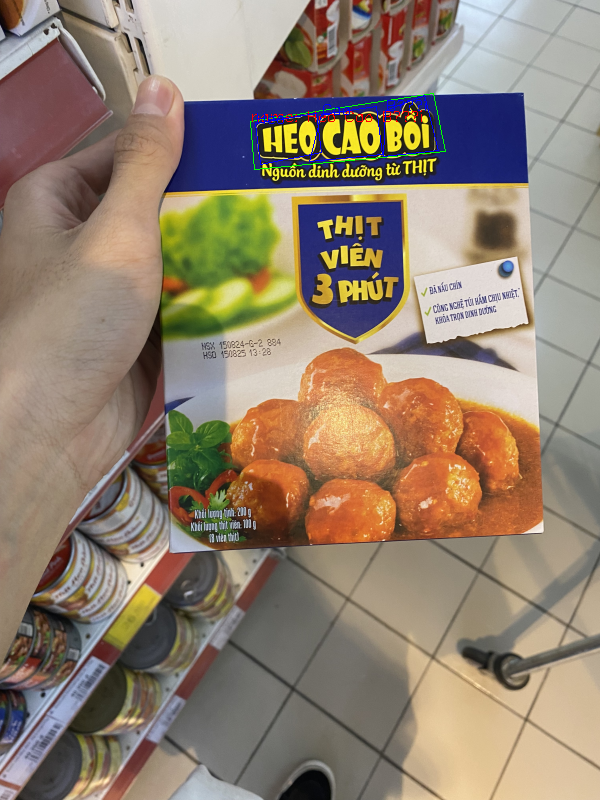
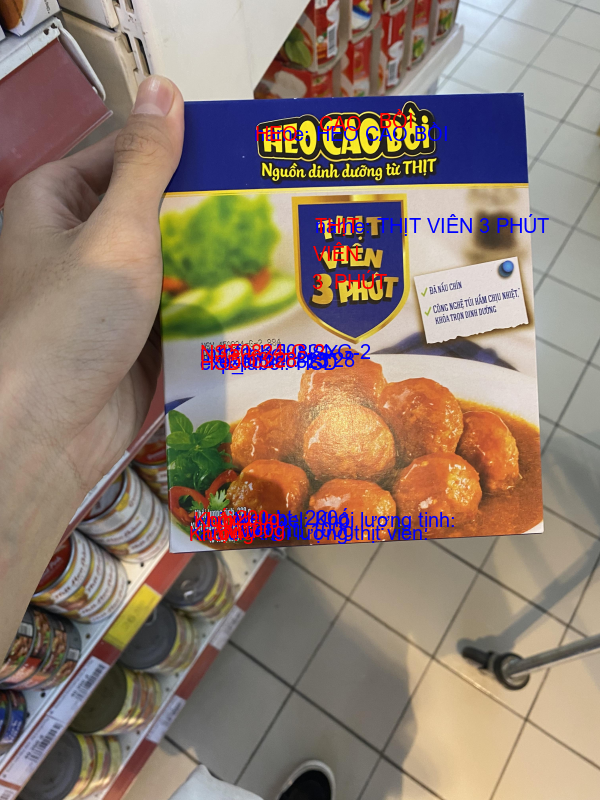
Update

diff --git a/app.py b/app.py
@@ -13,7 +13,7 @@ class LabelingApp:
         self.root.title("Image Labeling Tool")
         self.root.state('zoomed')  # Mở ứng dụng ở chế độ full màn hình
         # Cấu hình đường dẫn
-        self.image_folder = "images"  # Folder chứa ảnh
+        self.image_folder = "images_old"  # Folder chứa ảnh
         self.output_folder = "output"  # Folder chứa output JSON
         os.makedirs(self.output_folder, exist_ok=True)  # Tạo folder nếu chưa tồn tại
         self.current_image_path = None
@@ -239,35 +239,37 @@ class LabelingApp:
         return image
 
     def draw_grid(self, x_offset, y_offset, width, height):
-        # """Vẽ lưới tọa độ phù hợp với kích thước ảnh."""
-        # grid_size = 50  # Kích thước mỗi ô lưới
-        # for x in range(0, width, grid_size):
-        #     self.canvas.create_line(x_offset + x, y_offset, x_offset + x, y_offset + height, fill="gray", dash=(2, 2))
-        # for y in range(0, height, grid_size):
-        #     self.canvas.create_line(x_offset, y_offset + y, x_offset + width, y_offset + y, fill="gray", dash=(2, 2))
-        pass
+        """Vẽ lưới tọa độ phù hợp với kích thước ảnh."""
+        grid_size = 20  # Kích thước mỗi ô lưới
+        for x in range(0, width, grid_size):
+            self.canvas.create_line(x_offset + x, y_offset, x_offset + x, y_offset + height, fill="gray", dash=(2, 2))
+        for y in range(0, height, grid_size):
+            self.canvas.create_line(x_offset, y_offset + y, x_offset + width, y_offset + y, fill="gray", dash=(2, 2))
+        # pass
+        
     def show_mouse_coordinates(self, event, x_offset, y_offset):
-        """Hiển thị tọa độ hiện tại của con trỏ chuột."""
-        # Kiểm tra xem con trỏ chuột có nằm trong vùng ảnh hay không
-        canvas_width = self.canvas.winfo_width()
-        canvas_height = self.canvas.winfo_height()
-        img_width, img_height = self.image.size
-        aspect_ratio = img_width / img_height
-        if canvas_width / canvas_height > aspect_ratio:
-            new_height = canvas_height
-            new_width = int(new_height * aspect_ratio)
-        else:
-            new_width = canvas_width
-            new_height = int(new_width / aspect_ratio)
-        x_offset = (canvas_width - new_width) // 2
-        y_offset = (canvas_height - new_height) // 2
-        if x_offset <= event.x < x_offset + new_width and y_offset <= event.y < y_offset + new_height:
-            # Chuyển đổi tọa độ từ hệ tọa độ hiển thị sang hệ tọa độ gốc
-            original_x = int((event.x - x_offset) * self.scale_x)
-            original_y = int((event.y - y_offset) * self.scale_y)
-            self.status_label.config(text=f"Mouse Position: ({original_x}, {original_y})")
-        else:
-            self.status_label.config(text="Mouse is outside the image area.")
+        # """Hiển thị tọa độ hiện tại của con trỏ chuột."""
+        # # Kiểm tra xem con trỏ chuột có nằm trong vùng ảnh hay không
+        # canvas_width = self.canvas.winfo_width()
+        # canvas_height = self.canvas.winfo_height()
+        # img_width, img_height = self.image.size
+        # aspect_ratio = img_width / img_height
+        # if canvas_width / canvas_height > aspect_ratio:
+        #     new_height = canvas_height
+        #     new_width = int(new_height * aspect_ratio)
+        # else:
+        #     new_width = canvas_width
+        #     new_height = int(new_width / aspect_ratio)
+        # x_offset = (canvas_width - new_width) // 2
+        # y_offset = (canvas_height - new_height) // 2
+        # if x_offset <= event.x < x_offset + new_width and y_offset <= event.y < y_offset + new_height:
+        #     # Chuyển đổi tọa độ từ hệ tọa độ hiển thị sang hệ tọa độ gốc
+        #     original_x = int((event.x - x_offset) * self.scale_x)
+        #     original_y = int((event.y - y_offset) * self.scale_y)
+        #     self.status_label.config(text=f"Mouse Position: ({original_x}, {original_y})")
+        # else:
+        #     self.status_label.config(text="Mouse is outside the image area.")
+        pass
 
     def reset_input_fields(self):
         """Reset tất cả các ô nhập liệu."""
@@ -287,10 +289,22 @@ class LabelingApp:
         """Tải labels từ file JSON nếu có."""
         base_name = os.path.splitext(os.path.basename(self.current_image_path))[0]
         json_path = os.path.join(self.output_folder, f"{base_name}.json")
+        
+        # Reset id counter khi load ảnh mới
+        self.id_counter = 1
+        
         if os.path.exists(json_path):
             with open(json_path, "r", encoding="utf-8") as f:
                 data = json.load(f)
             self.labels = data.get("form", [])
+            
+            # Tìm id lớn nhất trong danh sách labels
+            max_id = 0
+            for label in self.labels:
+                if "id" in label and isinstance(label["id"], int):
+                    max_id = max(max_id, label["id"])
+            self.id_counter = max_id + 1
+            
             for label in self.labels:
                 if "points" in label:
                     label["box"] = label.pop("points")  # Thay thế points thành box
@@ -363,6 +377,9 @@ class LabelingApp:
                 label["id"] = new_id
                 self.update_label_listbox()
                 self.save_labels()  # Lưu thay đổi vào file JSON
+                
+                # Reset các ô nhập liệu sau khi chỉnh sửa ID
+                self.reset_input_fields()
                 self.status_label.config(text=f"ID updated to {new_id}.")
 
     def edit_selected_linking(self):
@@ -382,6 +399,10 @@ class LabelingApp:
                     label["linking"] = linking_data
                     self.update_label_listbox()
                     self.save_labels()  # Lưu thay đổi vào file JSON
+                    
+                    # Reset các ô nhập liệu sau khi chỉnh sửa Linking
+                    self.reset_input_fields()
+                    
                     self.status_label.config(text="Linking updated.")
                 except ValueError:
                     messagebox.showerror("Error", "Invalid input. Please enter valid IDs separated by spaces.")
@@ -395,6 +416,10 @@ class LabelingApp:
             self.labels.pop(index)
             self.redraw_labels()
             self.update_label_listbox()
+            
+            # Reset các ô nhập liệu sau khi xóa label
+            self.reset_input_fields()
+            
             self.status_label.config(text="Label deleted.")
             # Kiểm tra xem label cần xóa có là current_label hay không
             if self.current_label and self.current_label["id"] == label_to_delete["id"]:

diff --git a/draw_label_on_image.py b/draw_label_on_image.py
@@ -2,6 +2,7 @@ import json
 
 import cv2
 import numpy as np
+from PIL import Image, ImageDraw, ImageFont
 
 image_name = "0001"
 
@@ -33,6 +34,10 @@ def get_rotation_angle(box):
 
 # Hàm để vẽ các bounding box lên hình ảnh
 def draw_boxes(image, form_data, draw_words=False):
+    pil_image = Image.fromarray(cv2.cvtColor(image, cv2.COLOR_BGR2RGB))
+    draw = ImageDraw.Draw(pil_image)
+    font = ImageFont.truetype("arial.ttf", 20)  # Sử dụng font Arial hỗ trợ tiếng Việt
+
     for item in form_data:
         # Vẽ bounding box cho label
         box = item['box']
@@ -40,8 +45,8 @@ def draw_boxes(image, form_data, draw_words=False):
         label = item['label']
         pts = np.array(box, np.int32).reshape((-1, 1, 2))
         cv2.polylines(image, [pts], True, (0, 255, 0), 1)
-        cv2.putText(image, f'{label}: {text}', tuple(box[0]), cv2.FONT_HERSHEY_SIMPLEX, 0.5, (0, 0, 255), 1)
-        
+        draw.text(tuple(box[0]), f'{label}: {text}', font=font, fill=(0, 0, 255))
+
         # Vẽ bounding box cho từng từ (word) nếu cần
         if draw_words:
             words = item.get('words', [])
@@ -51,11 +56,13 @@ def draw_boxes(image, form_data, draw_words=False):
                 word_text = word['text']
                 word_pts = np.array(word_box, np.int32).reshape((-1, 1, 2))
                 word_tuple = tuple(map(tuple, word_box))  # Chuyển thành tuple để lưu trong set
-                
+
                 if word_tuple not in drawn_boxes:
                     cv2.polylines(image, [word_pts], True, (255, 0, 0), 1)
-                    cv2.putText(image, word_text, tuple(word_box[0]), cv2.FONT_HERSHEY_SIMPLEX, 0.5, (255, 0, 0), 1)
+                    draw.text(tuple(word_box[0]), word_text, font=font, fill=(255, 0, 0))
                     drawn_boxes.add(word_tuple)
+
+    return cv2.cvtColor(np.array(pil_image), cv2.COLOR_RGB2BGR)
 
 # Xác định kích thước màn hình
 screen_width = 1600  # Thay đổi nếu cần
@@ -95,7 +102,7 @@ for item in data['form']:
     })
 
 # Vẽ bounding box lên ảnh đã scale
-draw_boxes(resized_image, scaled_form_data, draw_words=True)
+resized_image = draw_boxes(resized_image, scaled_form_data, draw_words=True)
 
 # Hiển thị ảnh
 cv2.imshow('Scaled Image with Bounding Boxes', resized_image)

diff --git a/README.md b/README.md
@@ -139,6 +139,19 @@ Image Labeling Tool là một ứng dụng hỗ trợ gán nhãn (label) cho pro
     }
     ```
 
+## **Giải thích cách dùng**
+
+| **Nhãn**       | **Chức năng**            | **Ví dụ dữ liệu**                |
+| -------------- | ------------------------ | -------------------------------- |
+| `name`         | Tên sản phẩm             | "HEO CAO BỒI - Thịt Viên 3 Phút" |
+| `mfg_label`    | Nhãn chỉ ngày sản xuất   | "NSX"                            |
+| `mfg`          | Ngày sản xuất            | "150824-6-2 804"                 |
+| `exp_label`    | Nhãn chỉ hạn sử dụng     | "HSD"                            |
+| `exp`          | Hạn sử dụng              | "150825 13:28"                   |
+| `weight_label` | Nhãn chỉ khối lượng tịnh | "Khối lượng tịnh"                |
+| `weight`       | Khối lượng tịnh          | "200g"                           |
+| `other`        | Thông tin khác           | "Đã nấu chín"                    |
+
 ## Demo
 
 Demo `app.py`
